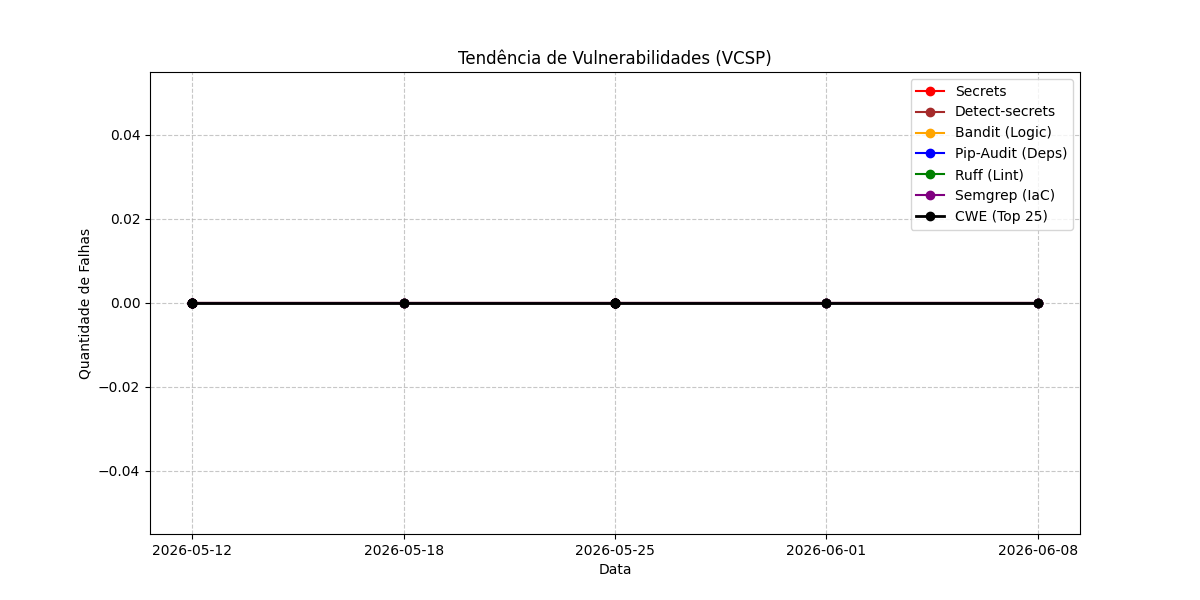
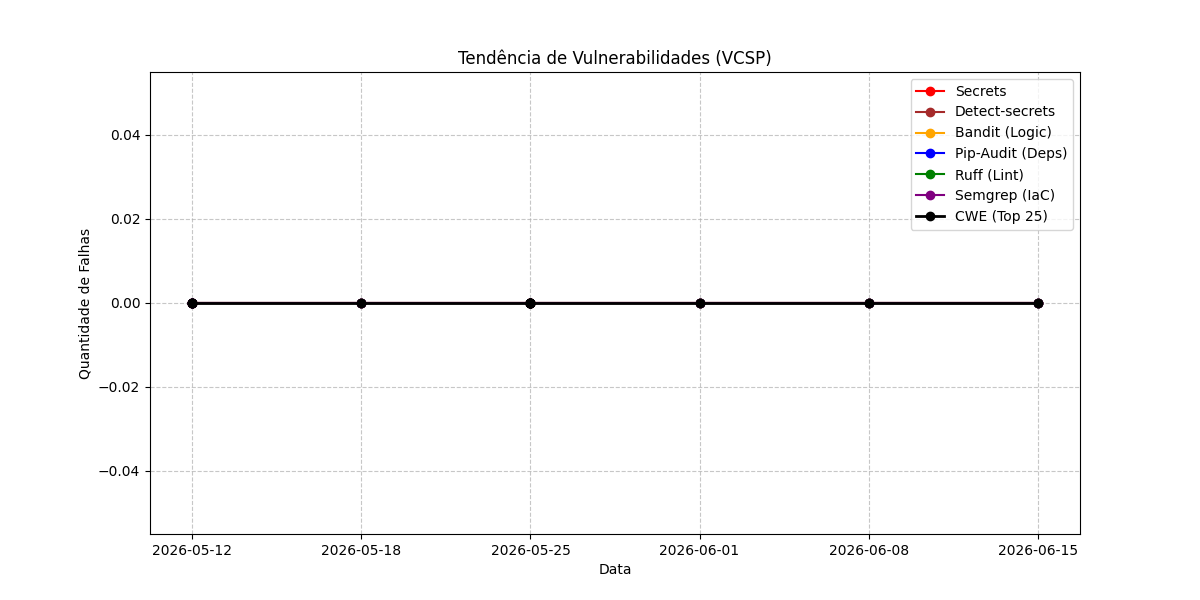
docs: update security trend chart

diff --git a/README.md b/README.md
@@ -206,7 +206,7 @@ O VCSP realiza as seguintes verificações automáticas em cada execução:
 O gráfico abaixo mostra a tendência das vulnerabilidades encontradas por cada ferramenta ao longo do tempo:
 
 
-![Bug Trend](.vibe/assets/bug_trend.png?v=20260608122748)
+![Bug Trend](.vibe/assets/bug_trend.png?v=20260615135451)
 
 ---
 